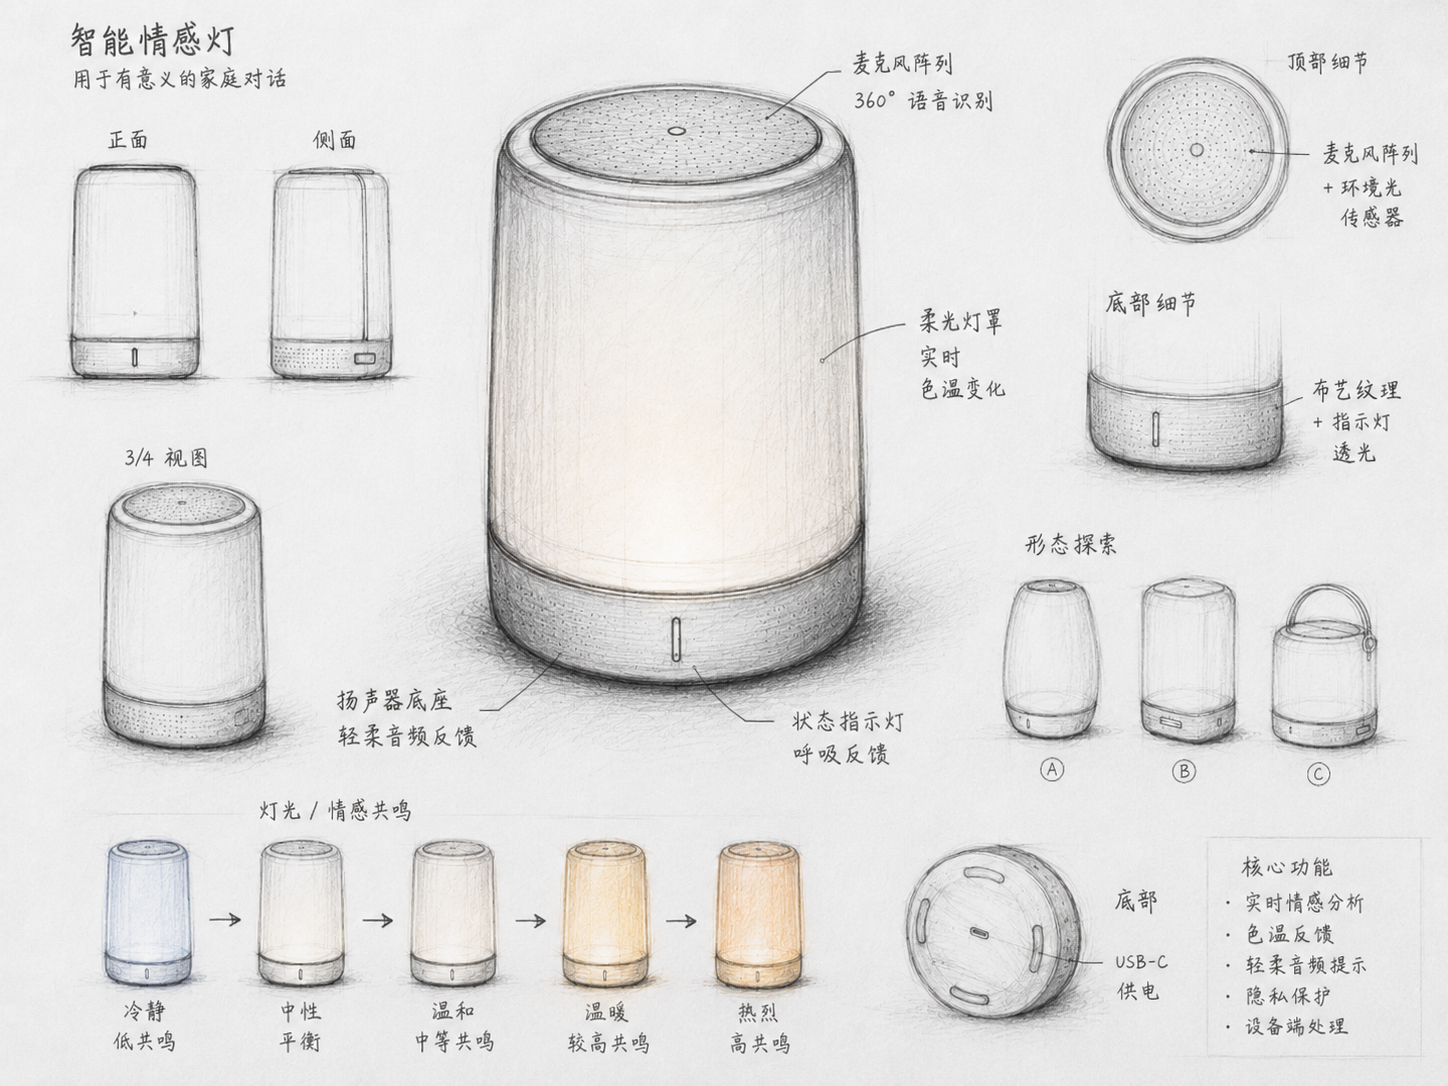
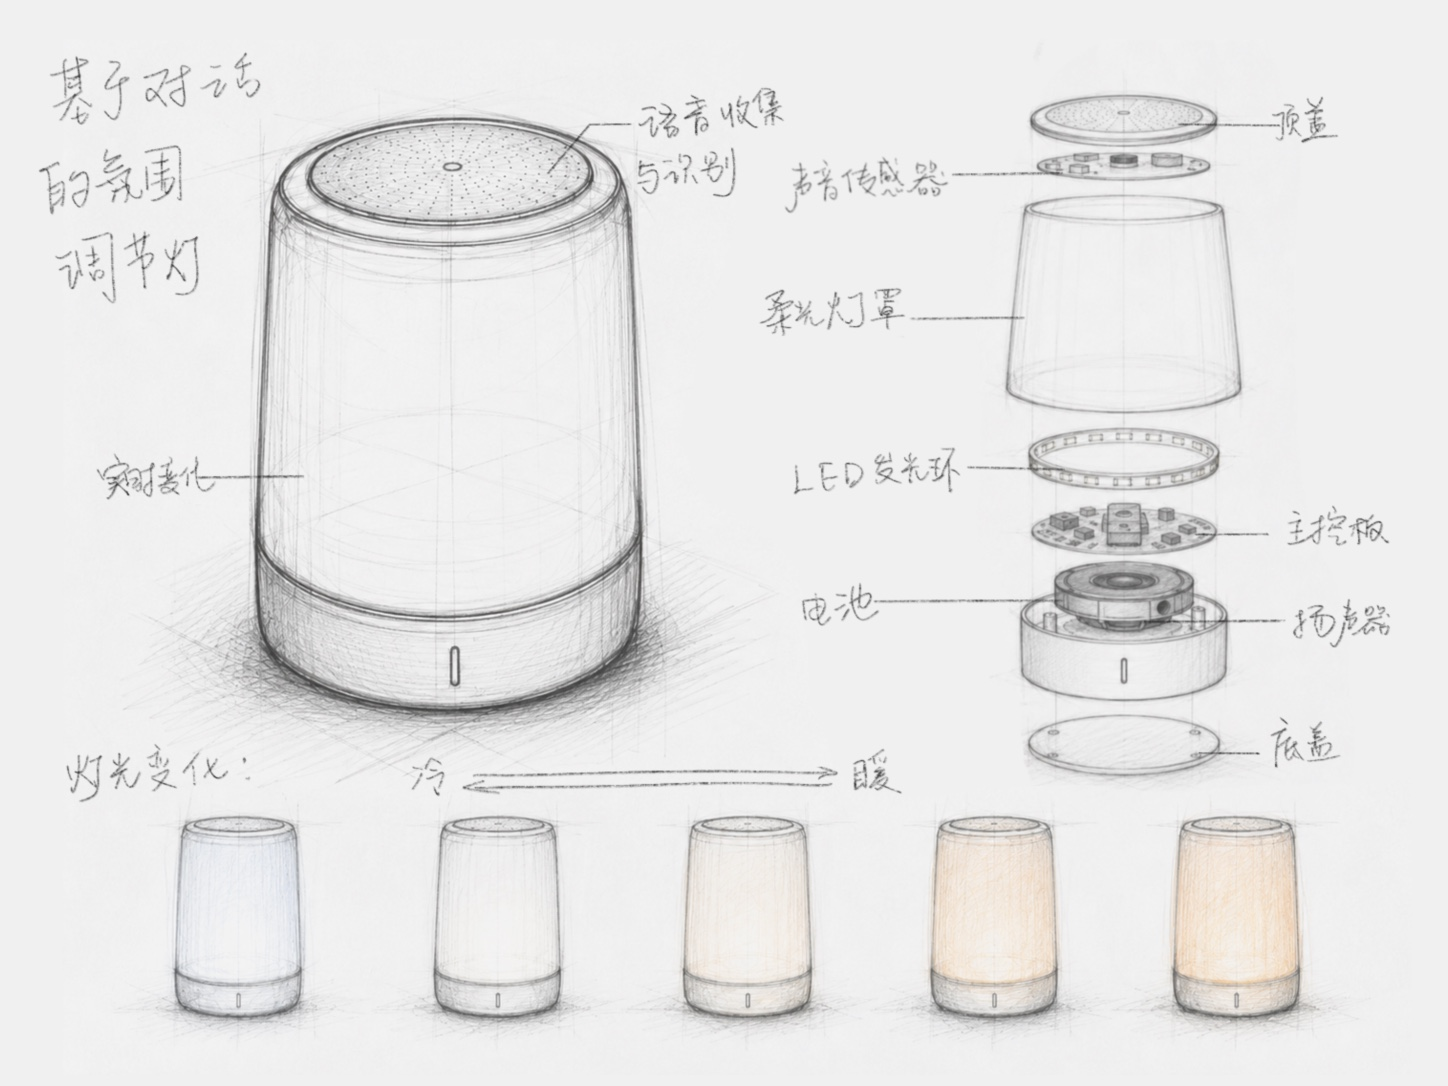
x

diff --git a/project-planter.html b/project-planter.html
@@ -25,7 +25,7 @@
     <main class="project-detail">
       <h1>Hydrochromic Interactive Planter</h1>
 
-      <img src="planter.jpg" alt="Planter Cover" class="article-image" />
+      <img src="planter.GIF" alt="Planter Cover" class="article-image" />
 
       <section class="project-section">
         <h2>Background</h2>
@@ -89,7 +89,7 @@
         <!-- 第四张：单张图 -->
         <div class="planter-media-item">
           <div class="planter-media-frame">
-            <img src="planter-gallery-4.jpg" alt="Planter design detail">
+            <img src="planter-gallery-4.GIF" alt="Planter design detail">
           </div>
           <div class="card-info">
             <h3>Absorbent Sponge</h3>

diff --git a/projects.html b/projects.html
@@ -66,7 +66,7 @@
 
         <a href="project-planter.html" class="project-card">
           <div class="project-image">
-            <img class="project-hover-img" src="planter.jpg" data-img1="planter.jpg" data-img2="planter-gallery-1.jpg" data-img3="planter.jpg" alt="Planter" />
+            <img class="project-hover-img" src="planter.GIF" data-img1="planter.GIF" data-img2="planter-gallery-1.jpg" data-img3="planter.GIF" alt="Planter" />
           </div>
           <div class="project-text">
             <h3>Hydrochromic Interactive Planter</h3>

diff --git a/project-autism.html b/project-autism.html
@@ -48,15 +48,9 @@
         </p>
       </section>
 
-      <div class="two-cards-wrapper">
+      <div class="single-card-wrapper">
         
-        <div class="hover-card">
-          <img src="autism-gallery-1.jpg" alt="Sensory Interaction">
-          <div class="card-info">
-            <h3>Visual Design Details</h3>
-          </div>
-        </div>
-
+      
         <div class="hover-card">
           <img src="autism-gallery-2.jpg" alt="Visual Translation">
           <div class="card-info">
